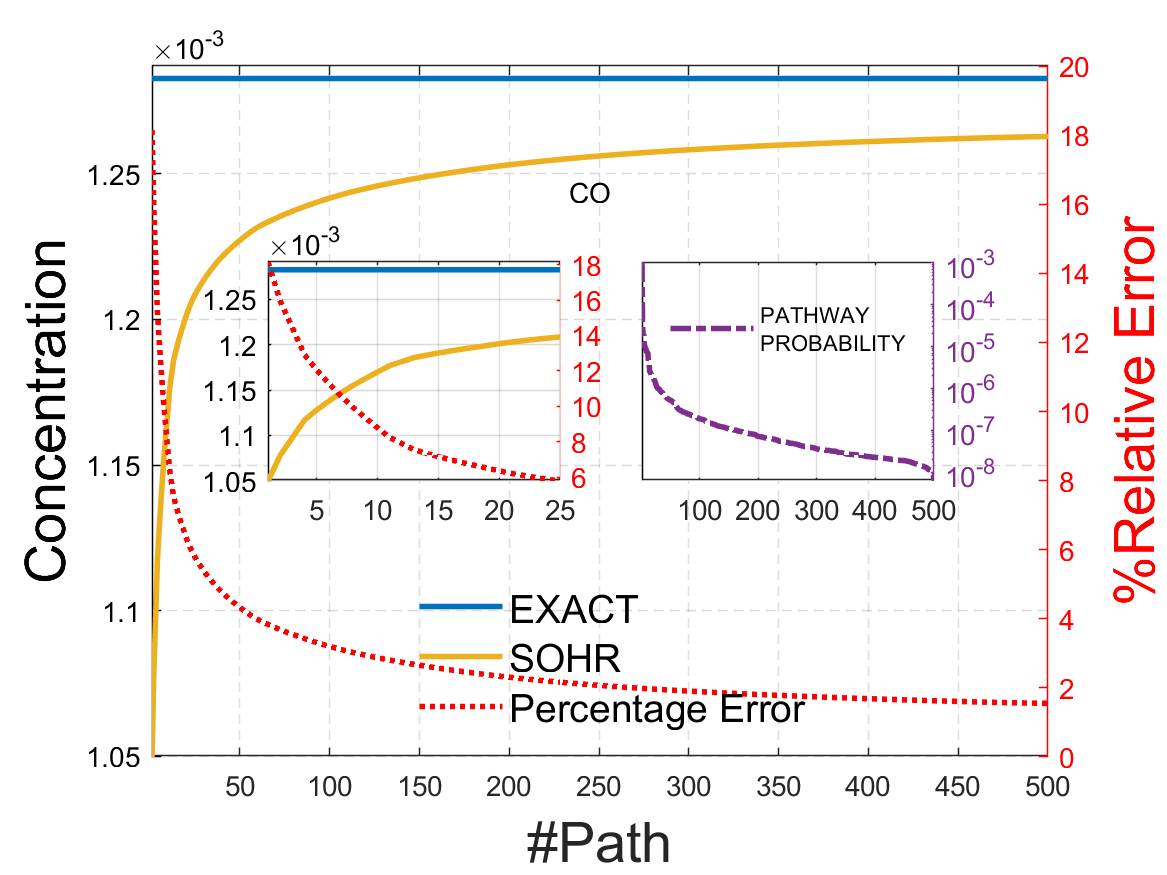
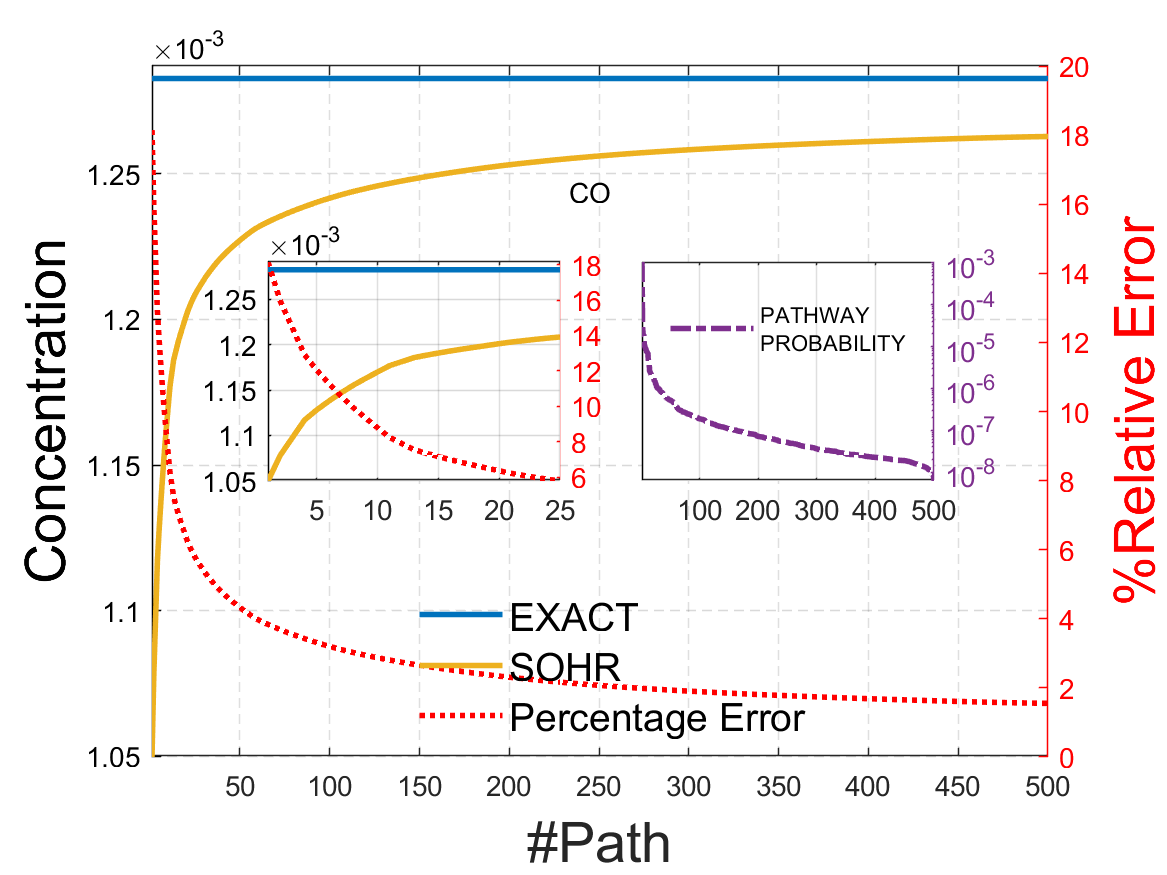
minor

Changed region(s): [[0.3393, 0.6789, 0.7095, 0.864]]

diff --git a/theory/misc/trajectory_convergence/trajectory_convergence_3_2.m b/theory/misc/trajectory_convergence/trajectory_convergence_3_2.m
@@ -5,6 +5,14 @@ folder1 = '0.5tau';
 tau = '0.777660157519';
 end_t = '0.5';
 
+%% index, delta, every settings
+end_idx1 = 500;
+delta1 = 1;
+end_idx2 = 25;
+delta2 = 1;
+end_idx3 = 500;
+delta3 = 1;
+
 %% Current file directory
 file_dir = fullfile(fileparts(mfilename('fullpath')));
 
@@ -92,7 +100,7 @@ xlim([1, end_idx1]);
 leg_h = legend([p1; p2; p3],'EXACT','SOHR', 'Percentage Error');
 set(leg_h, 'FontSize', 14, 'Box', 'off');
 % [left, bottom, weight, height]
-set(leg_h, 'Position', [0.275, 0.2, 0.5, 0.1])
+set(leg_h, 'Position', [0.275, 0.19, 0.5, 0.1])
 
 a_x = gca;
 t_x = a_x.XLim(1) + 0.465*(a_x.XLim(2) - a_x.XLim(1));

diff --git a/theory/misc/trajectory_convergence/trajectory_convergence_1_2.m b/theory/misc/trajectory_convergence/trajectory_convergence_1_2.m
@@ -99,7 +99,7 @@ xlim([1, end_idx1]);
 leg_h = legend([p1; p2; p3],'EXACT','SOHR', 'Percentage Error');
 set(leg_h, 'FontSize', 14, 'Box', 'off');
 % [left, bottom, weight, height]
-set(leg_h, 'Position', [0.275, 0.2, 0.5, 0.1])
+set(leg_h, 'Position', [0.275, 0.19, 0.5, 0.1])
 
 a_x = gca;
 t_x = a_x.XLim(1) + 0.465*(a_x.XLim(2) - a_x.XLim(1));

diff --git a/theory/misc/trajectory_convergence/trajectory_convergence_2_2.m b/theory/misc/trajectory_convergence/trajectory_convergence_2_2.m
@@ -99,7 +99,7 @@ xlim([1, end_idx1]);
 leg_h = legend([p1; p2; p3],'EXACT','SOHR', 'Percentage Error');
 set(leg_h, 'FontSize', 14, 'Box', 'off');
 % [left, bottom, weight, height]
-set(leg_h, 'Position', [0.275, 0.2, 0.5, 0.1])
+set(leg_h, 'Position', [0.275, 0.19, 0.5, 0.1])
 
 a_x = gca;
 t_x = a_x.XLim(1) + 0.465*(a_x.XLim(2) - a_x.XLim(1));
